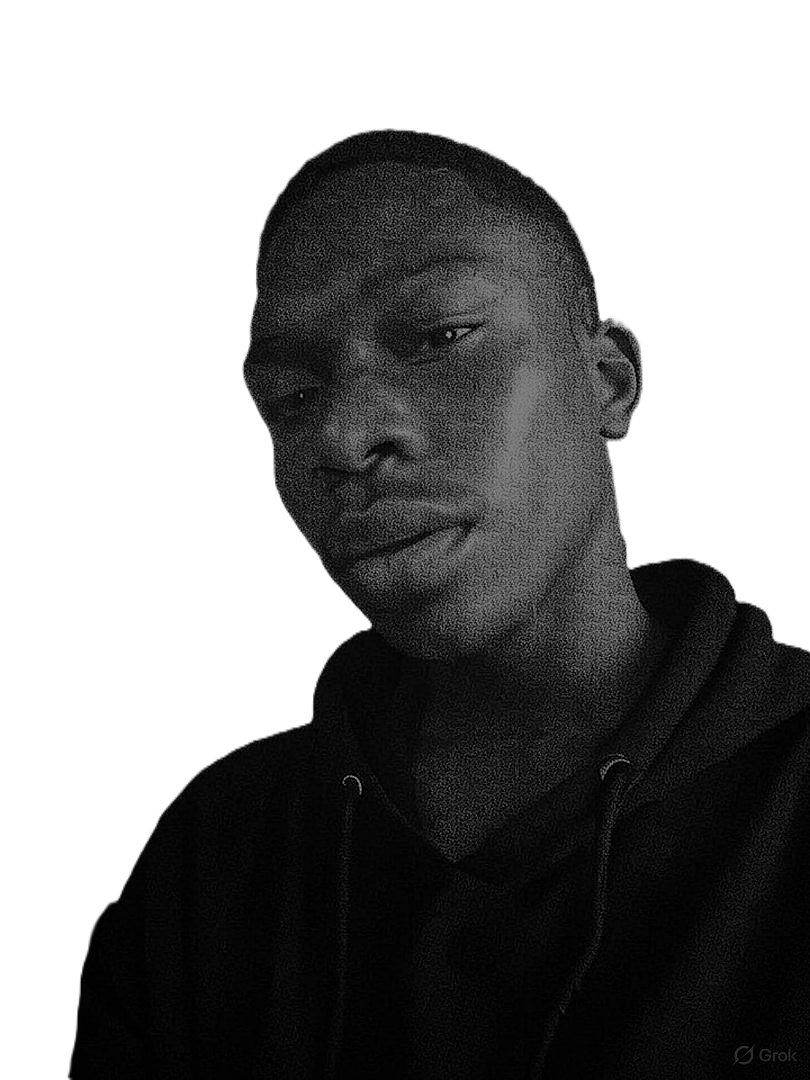
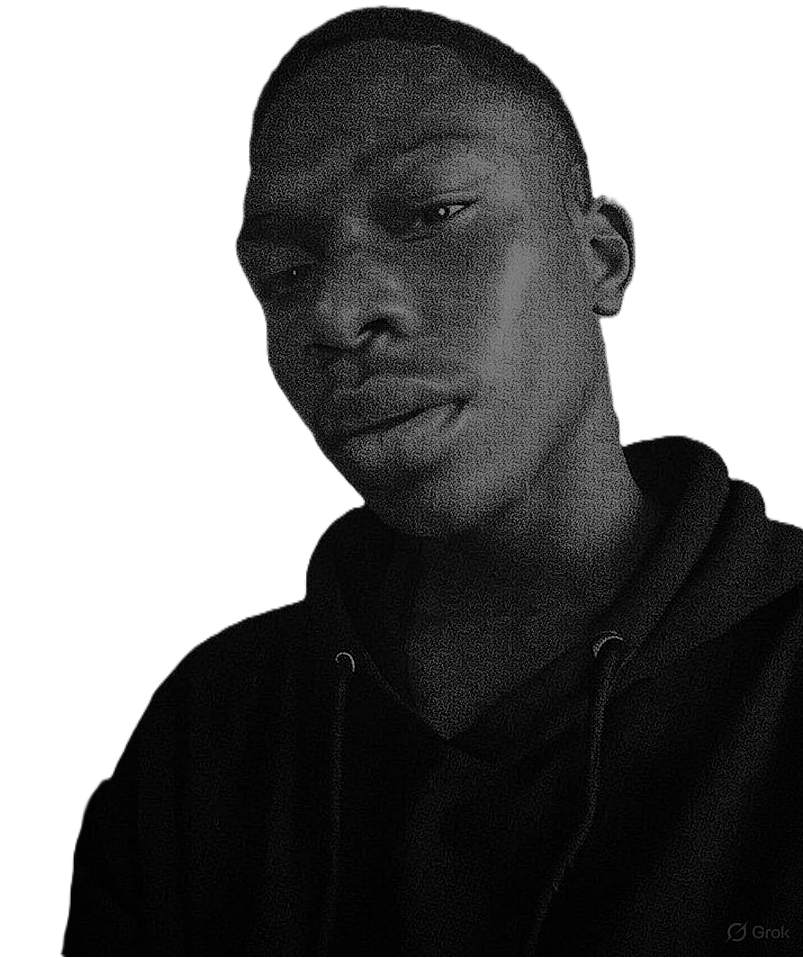
about me page

Changed region(s): [[0.0623, 0.0, 1.0, 1.0], [0.934, 0.7265, 0.9651, 0.7568]]

diff --git a/src/components/AboutMe.tsx b/src/components/AboutMe.tsx
@@ -1,11 +1,26 @@
+
 import secHeroImg from '../assets/secHeroImg.png';
 
 export default function AboutMe() {
   return (
-    <section className="text-white font-fira flex flex-col gap-6 py-8"> 
-        <div></div>
-        <div>
-            <img src={secHeroImg} alt="" />
+    <section className="text-white font-fira items-center gap-2 py-8 md:py-16 lg:py-24 flex flex-col md:flex-row justify-between"> 
+        <div className='flex flex-col gap-6 md:w-1/2 w-full'>
+            <h2 className="text-3xl text-white flex items-center font-[500]"><span className="text-brand-700">#</span>About me<span className="ring-1 ring-brand-700 w-96 h-[0px] inline-block ml-6"></span></h2>
+
+            <div className='flex flex-col gap-4 text-base text-brand-500'>
+                <p>Hello, I’m Daniel!</p>
+                <p>I’m a self-taught front-end developer based in Lagos, Nigeria. I specialize in building responsive websites from the ground up, transforming them into modern, user-friendly web experiences. </p>
+                <p>Turning my creativity and expertise into websites has been my passion for over a year. I’ve been assisting various clients in establishing their online presence. I’m always eager to explore and master the latest technologies and frameworks.</p>
+            </div>
+
+            <button 
+                className='px-6 py-3 md:px-8 md:py-4 text-white ring-1 ring-brand-700 hover:bg-brand-700 transition-colors duration-300 w-full sm:w-[fit-content]'
+                >
+                Read More 
+            </button>
+        </div>
+        <div className='align-right'>
+            <img src={secHeroImg} className='w-96' alt="" />
         </div>
     </section>
   )

diff --git a/src/components/Projects.tsx b/src/components/Projects.tsx
@@ -6,7 +6,7 @@ export default function Projects() {
     return (
         <section className="font-fira mt-24 mb-24">
             <div className="flex justify-between mb-12">
-                <h2 className="text-3xl text-white flex items-center font-bold"><span className="text-brand-700">#</span>Projects <span className="ring-1 ring-brand-700 w-96 h-[0px] inline-block ml-6"></span></h2>
+                <h2 className="text-3xl text-white flex items-center font-[500]"><span className="text-brand-700">#</span>Projects <span className="ring-1 ring-brand-700 w-96 h-[0px] inline-block ml-6"></span></h2>
                 <Link to="/projects" className="text-base text-white">View all &#8669;</Link>
             </div>
 

diff --git a/src/components/Skills.tsx b/src/components/Skills.tsx
@@ -4,7 +4,7 @@ export default function Skills() {
 
     return (
         <div className="min-h-screen flex flex-col font-fira ">
-            <h2 className="text-3xl text-white flex items-center font-bold"><span className="text-brand-700">#</span>Skills<span className="ring-1 ring-brand-700 w-96 h-[0px] inline-block ml-6"></span></h2>
+            <h2 className="text-3xl text-white flex items-center font-[500]"><span className="text-brand-700">#</span>Skills<span className="ring-1 ring-brand-700 w-96 h-[0px] inline-block ml-6"></span></h2>
 
             <div>
                 <div></div>

diff --git a/src/components/Hero.tsx b/src/components/Hero.tsx
@@ -19,7 +19,7 @@ export default function Hero() {
           He crafts responsive websites where technologies meet creativity
         </p>
         <button 
-          className='px-6 py-3 md:px-8 md:py-4 text-white ring-2 ring-brand-700 hover:bg-brand-700 transition-colors duration-300 w-full sm:w-auto'
+          className='px-6 py-3 md:px-8 md:py-4 text-white ring-1 ring-brand-700 hover:bg-brand-700 transition-colors duration-300 w-full sm:w-auto'
         >
           Contact Me !!
         </button>
